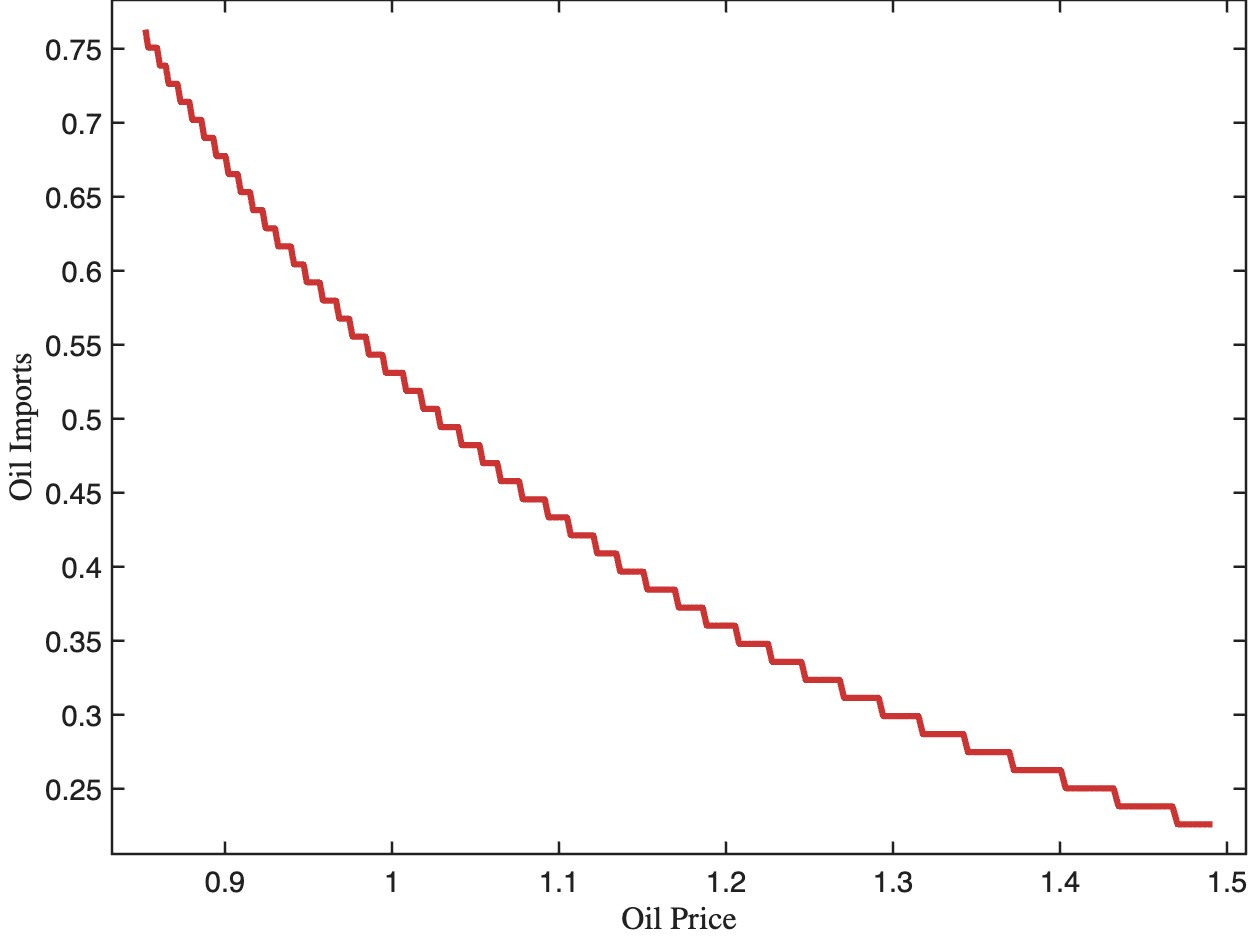
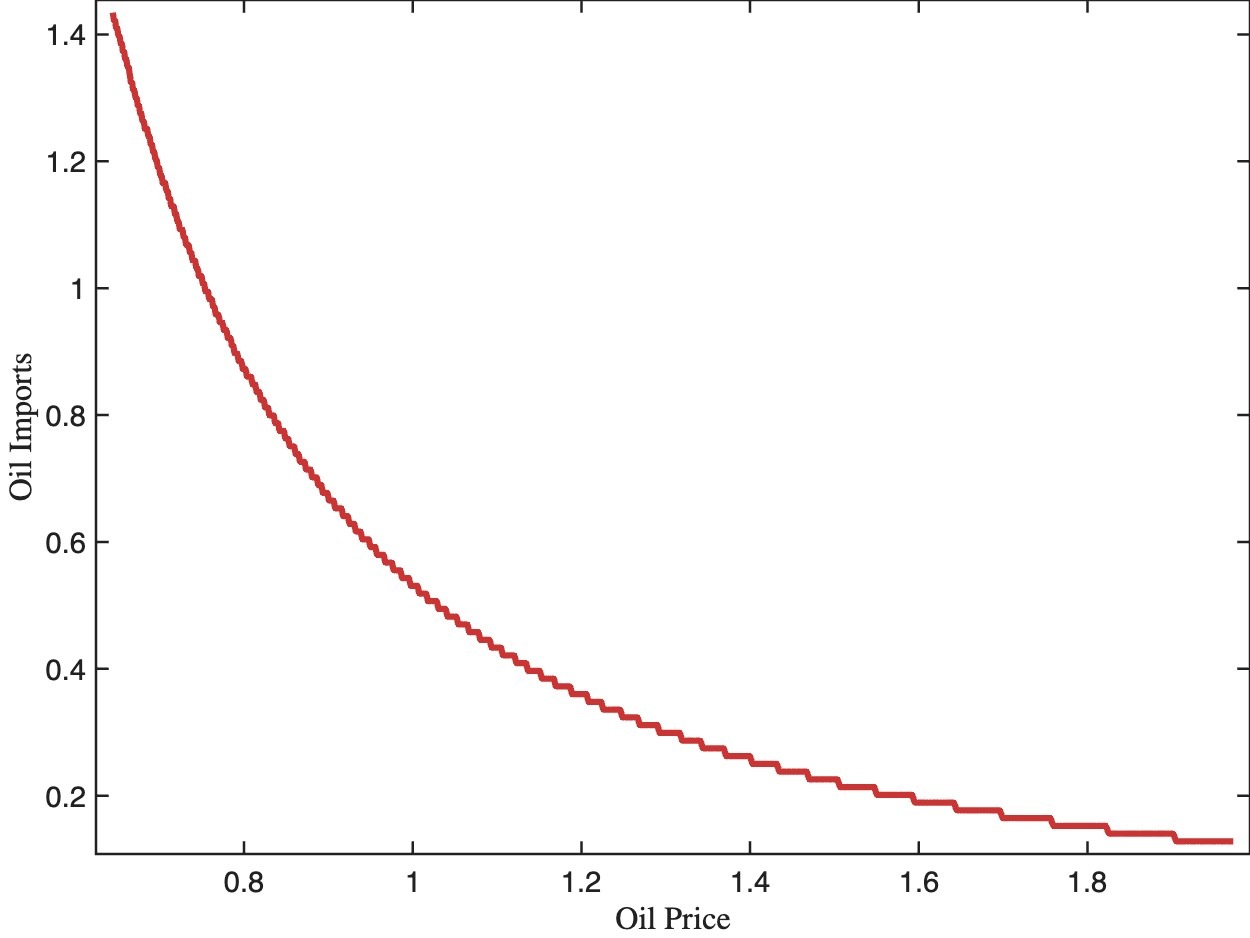
Widen the common grid to match the submitted price reach; fix node definition
The common grid was set to +/-3 sd, a limit carried over from the corrected
calibration where sd(log p) = 0.646 and the oil-demand floor binds at 3.9 sd.
At the SUBMITTED calibration sd(log p) = 0.093 and the floor (0.09) is nowhere
near binding, so +/-3 sd spanned only [0.852, 1.491] while the submitted model
actually reached [0.668, 1.902] -- its highest-volatility grid extended to 5.6
unconditional SDs. The corrected model was therefore truncating the price range
to roughly half of what the submitted one covers, which changes every figure.

Widened to +/-6 sd, giving [0.644, 1.973], and p_num raised to 549 to keep the
resolution ratio at 2.0 in the lowest-volatility state.

Also moves the i_p_low / i_p_high definition to AFTER the clear/reload. Defined
before the save, they were written into oil_*.mat and then only survived by
being reloaded -- the same pollution pattern as value_full. The intermediate and
basic stages failed on an undefined i_p_high as a result.

Baseline validation still passes: at p_num = 7 the contrast resolves to nodes 2
and 6, prices 1.0120 and 1.2562, and all ten published figures regenerate
pixel-identically.

Claude-Session: https://claude.ai/code/session_017rjGUFtN3rRvLQEeLusJ9z

diff --git a/model/working_graphs_dec29.m b/model/working_graphs_dec29.m
@@ -87,15 +87,6 @@ b_num = length(b_grid);
 p_vol_num = length(p_vol_grid);
 p_num = length(p_grid)/p_vol_num;
 
-% Price nodes used throughout for the "low price" / "high price" contrast.
-% These were hardcoded as 2 and 6, which bracket the grid only when p_num = 7:
-% at p_num = 277 nodes 2 and 6 sit at 0.4% and 1.8% of the grid -- both deep in
-% the left tail, so the contrast collapses and every low-vs-high comparison
-% becomes meaningless. Defined by RELATIVE position instead, reducing to exactly
-% 2 and 6 when p_num = 7.
-i_p_low  = max(1,     round(1 + (1/6)*(p_num-1)));   % 16.7% of the grid
-i_p_high = min(p_num, round(1 + (5/6)*(p_num-1)));   % 83.3% of the grid
-fprintf('price-node contrast: low = %d, high = %d (of %d)\n', i_p_low, i_p_high, p_num);
 
 p_grid_matrix=reshape(p_grid, p_num, p_vol_num);
 p_grid_1_matrix=reshape(p_grid_1, p_num, p_vol_num);
@@ -281,6 +272,17 @@ clear all
 %fprintf('DEBUG: Loading oil_bm.mat from: %s\n', which('oil_bm.mat'));
 %% Loading the benchmark/full model
 load oil_bm.mat
+
+% Price nodes for the "low price" / "high price" contrast in Figures 3, 6a, 6b.
+% Hardcoded as 2 and 6 originally, which bracket the grid only at p_num = 7; at
+% p_num = 549 those sit at 0.2% and 0.9% of the grid, both deep in the left
+% tail, so the contrast collapses. Defined by RELATIVE position instead, which
+% reduces to exactly 2 and 6 when p_num = 7.
+% Defined HERE, after the clear/reload, so it is never saved into oil_*.mat.
+i_p_low  = max(1,     round(1 + (1/6)*(p_num-1)));
+i_p_high = min(p_num, round(1 + (5/6)*(p_num-1)));
+fprintf('price-node contrast: low = %d, high = %d of %d  (prices %.4f and %.4f)\n', ...
+        i_p_low, i_p_high, p_num, exp(p_grid_matrix(i_p_low,3)), exp(p_grid_matrix(i_p_high,3)));
 %fprintf('DEBUG: After load, spread_matrix size = ['); fprintf('%d ', size(spread_matrix)); fprintf(']\n');
 % scale_y=10;
 % dy =0.25*b_grid/mean(scale_y*exp(y_grid));
